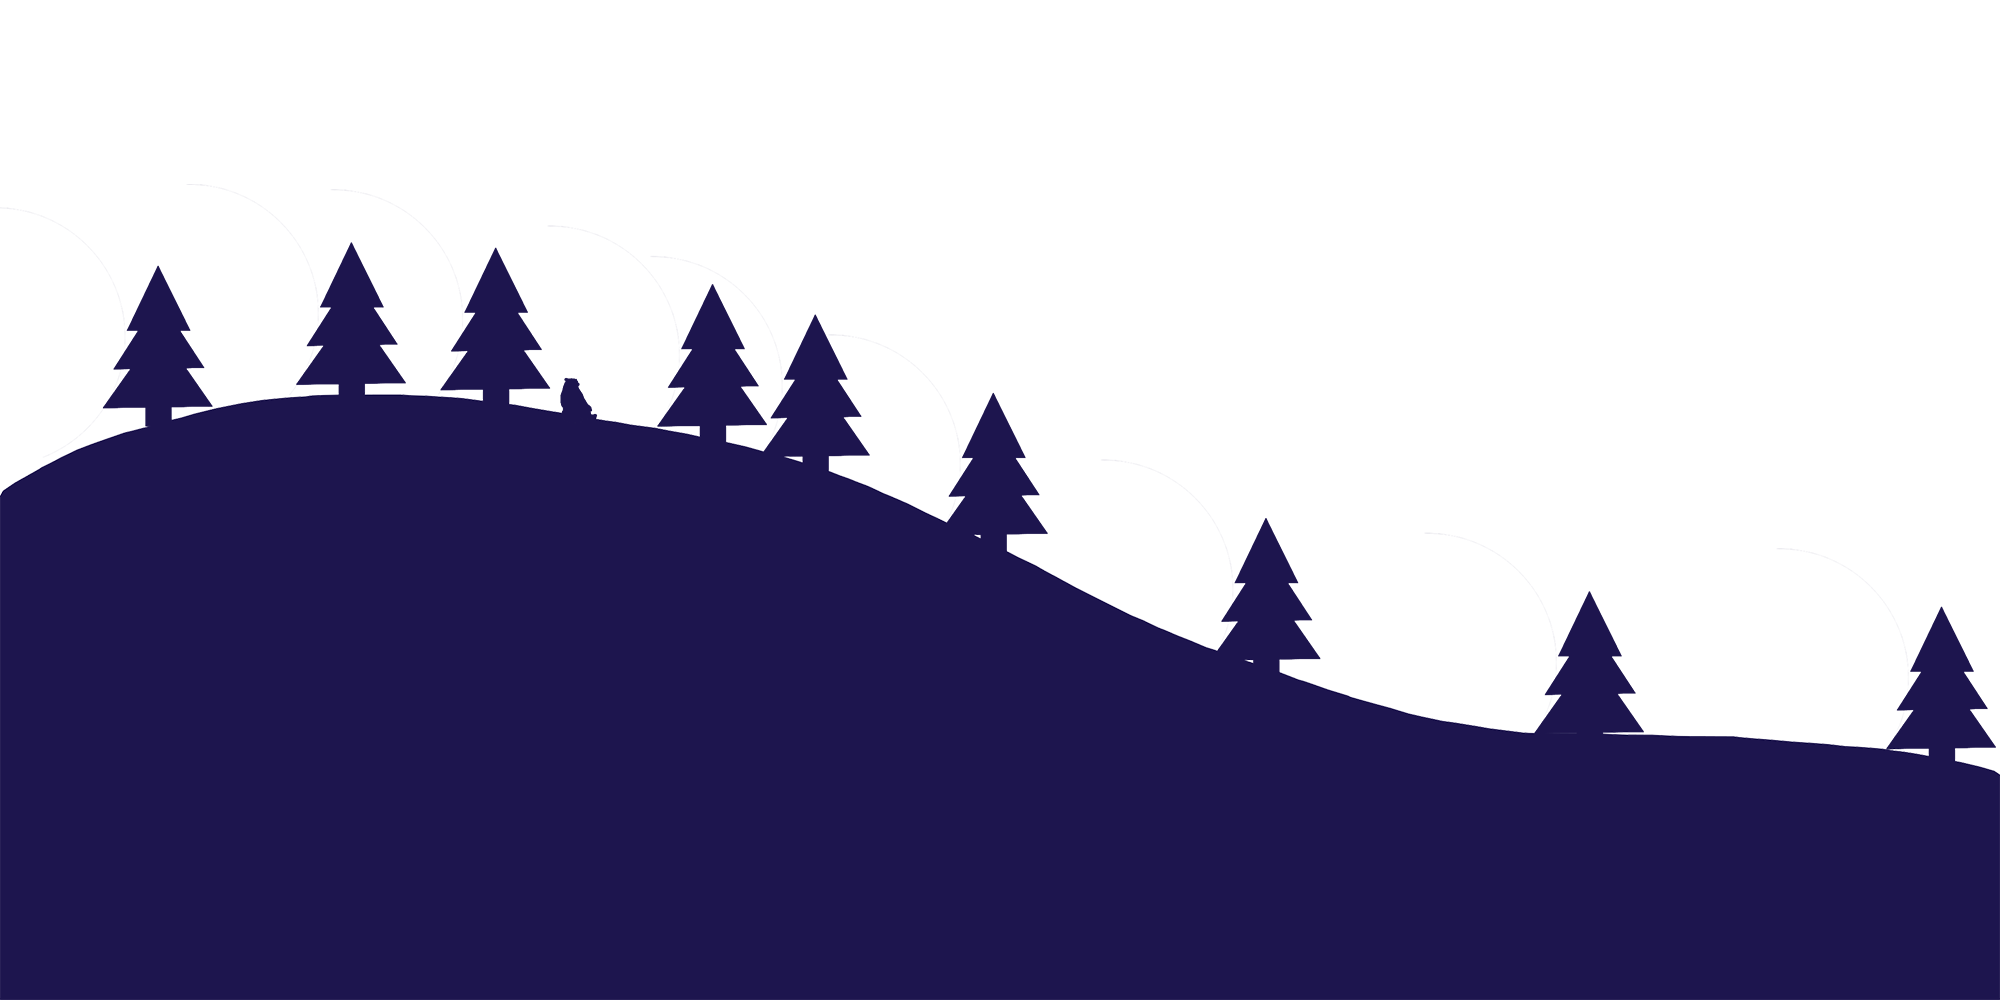
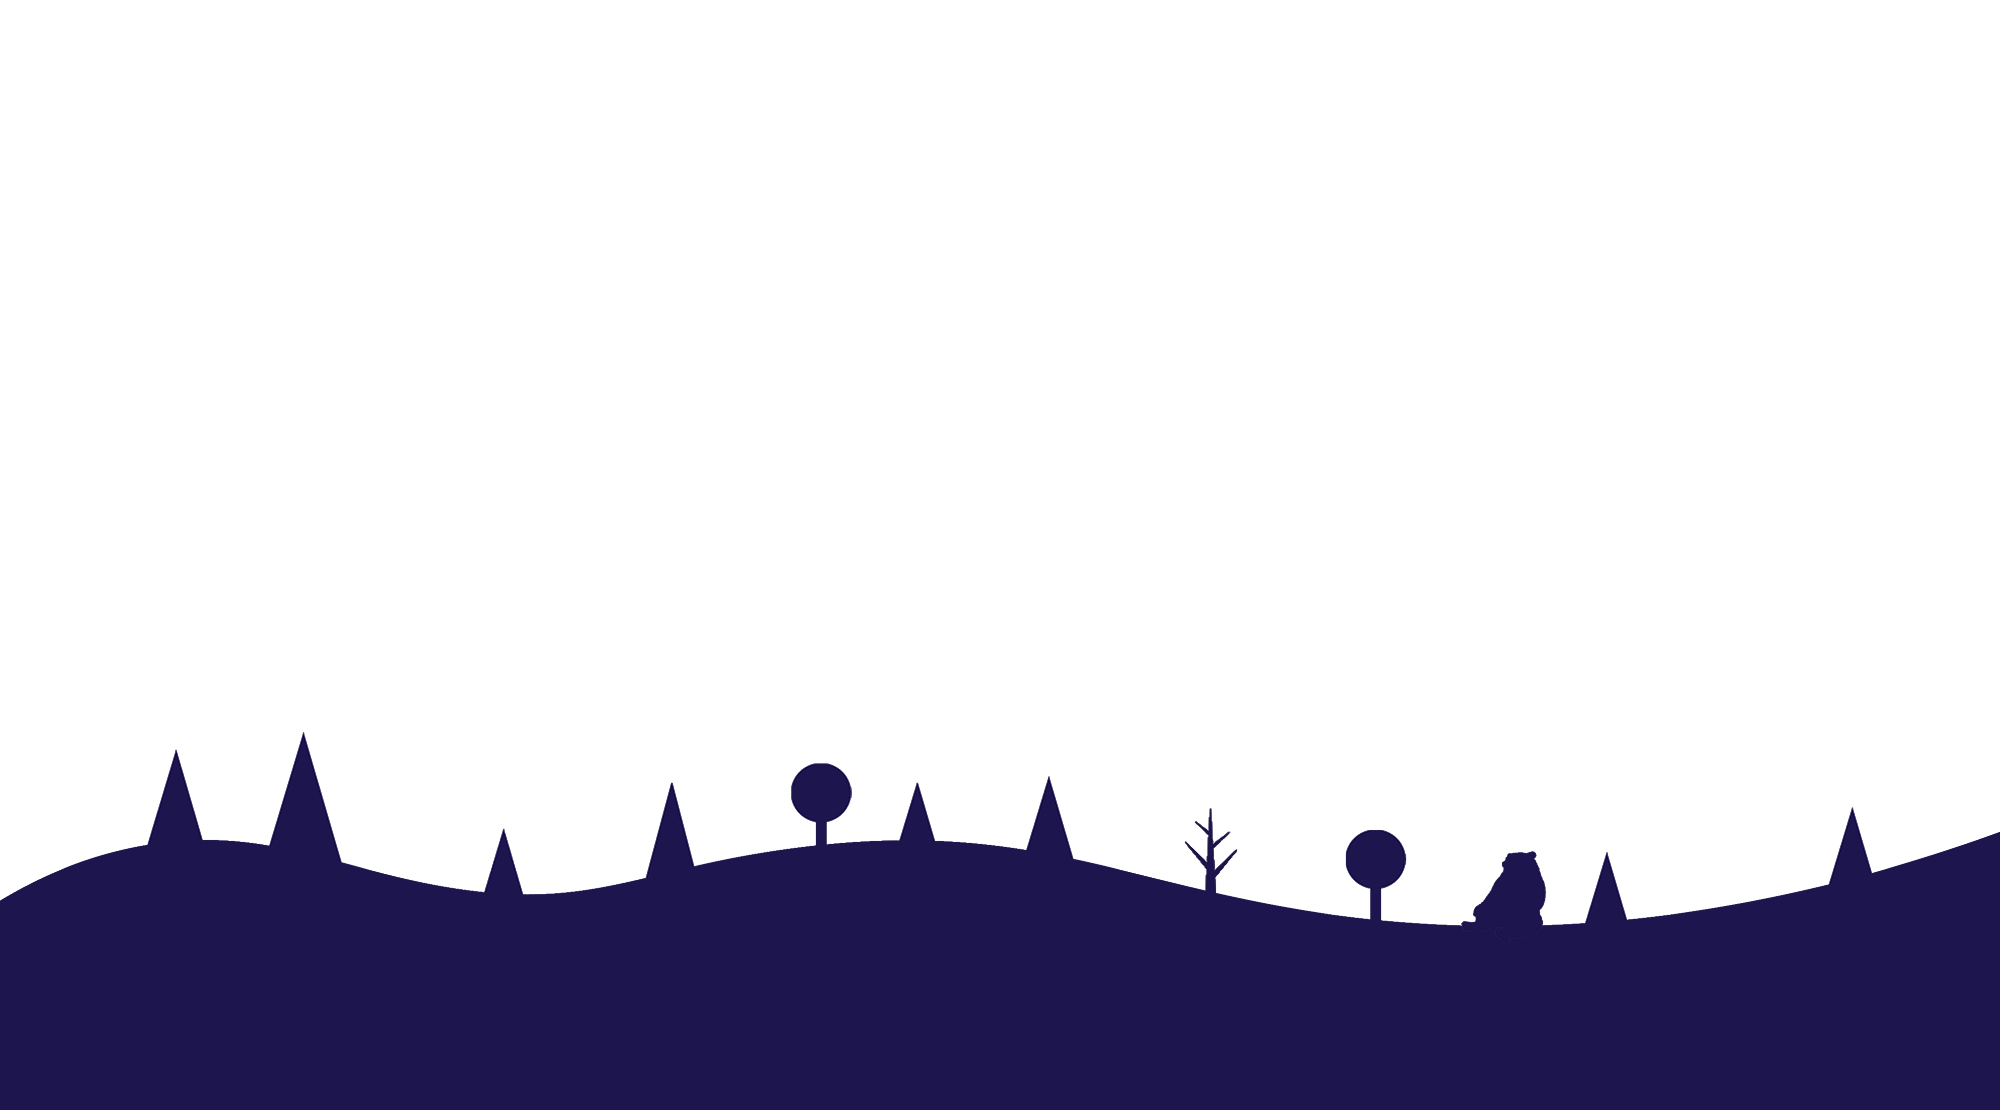
paralax done

Changed region(s): [[0.0, 0.248, 1.0, 0.837]]

diff --git a/src/components/Home/Paralax/styled.js b/src/components/Home/Paralax/styled.js
@@ -2,65 +2,108 @@ import styled from 'styled-components';
 
 import { assets, colors } from 'utils/styles';
 
+export const ParalaxRoot = styled.div`
+  position: relative;
+  top: 0;
+  height: 1000px;
+  width: 100%;
+  min-width: 720px;
+  background-position: 0 center;
+`;
+
 export const TitleContainer = styled.div`
   display: block;
-  position: absolute;
-  top: 75px;
+  position: relative;
+  top: 60px;
   width: 100%;
   min-width: 720px;
   height: 300px;
   text-align: center;
-  z-index: -50;
 `;
 
 export const Title = styled.h1`
-  position: relative;
-  font-weight: normal;
-  display: block;
-  overflow: hidden;
   margin: auto;
-  width: 591px;
-  height: 0;
-  padding-top: 150px;
+  display: block;
+  width: 655px;
+  height: 150px;
+  background-size: cover;
+  text-align: center;
+  position: relative;
+
   background-image: ${`url(${assets.titleImg})`};
 `;
 
 export const Info = styled.h2`
+  font-family: Comfortaa;
   width: 525px;
   margin: auto;
-  font-size: 23px;
+  font-size: 24px;
   color: #15231a;
   display: block;
   margin-top: 40px;
 `;
 
 export const Foreground = styled.div`
+  display: block;
+  height: 100%;
+  bottom: 160px;
+  width: 100%;
+  min-width: 720px;
   position: absolute;
+  background-position: center;
+  background-image: ${`url(${assets.foregroundImg})`};
+`;
+
+export const Layer1 = styled.div`
+  position: fixed;
+  display: block;
+  height: 1000px;
+  bottom: 100px;
+  width: 100%;
+  min-width: 720px;
+  background-position: center;
+  background-image: ${`url(${assets.layer1Img})`};
+`;
+
+export const Layer2 = styled.div`
+  position: fixed;
+  display: block;
+  height: 1100px;
+  bottom: 50px;
+  width: 100%;
+  min-width: 720px;
+  background-position: center;
+  background-image: ${`url(${assets.layer2Img})`};
+`;
+
+export const Layer3 = styled.div`
+  display: block;
+  position: fixed;
   width: 100%;
   min-width: 720px;
   pointer-events: none;
   overflow: hidden;
-  height: 100%;
-  background-image: ${`url(${assets.foregroundImg})`};
-  background-size: cover;
+  height: 800px;
+  background-position: center;
+  background-image: ${`url(${assets.layer3Img})`};
 `;
 
 export const Background = styled.div`
   background-image: ${`url(${assets.backgroundImg})`};
-  background-position: center 0;
+  display: block;
+  background-position: center;
   width: 100%;
   min-width: 720px;
-  height: 835px;
-  display: block;
-  position: absolute;
-  top: 0;
-  z-index: -100;
+  height: 1000px;
+  background-repeat: repeat-x;
+  bottom: 100px;
+  position: fixed;
 `;
 
 export const Content = styled.div`
   position: absolute;
   width: 100%;
-  top: 710px;
+  top: 800px;
   color: ${colors.textPrimary};
   background-color: ${colors.contentBackground};
 `;

diff --git a/src/components/Home/Paralax/index.jsx b/src/components/Home/Paralax/index.jsx
@@ -20,42 +20,34 @@ class Paralax extends React.Component {
   }
 
   moveParalax = () => {
-    const offset1 = this.scrollPosition * 0.7;
-    const offset2 = this.scrollPosition * 0.5;
-
-    const layer1 = document.getElementById('background');
-    const layer2 = document.getElementById('title');
-
-    layer1.style.webkitTransform = `translate3d(0, ${offset1}px, 0)`;
-    layer1.style.MozTransform = `translate3d(0, ${offset1}px, 0)`;
-    layer1.style.msTransform = `translateY(${offset1}px)`;
-    layer1.style.OTransform = `translate3d(0, ${offset1}px, 0)`;
-    layer1.style.transform = `translate3d(0, ${offset1}px, 0)`;
-
-    layer2.style.webkitTransform = `translate3d(0, ${offset2}px, 0)`;
-    layer2.style.MozTransform = `translate3d(0, ${offset2}px, 0)`;
-    layer2.style.msTransform = `translateY(${offset2}px)`;
-    layer2.style.OTransform = `translate3d(0, ${offset2}px, 0)`;
-    layer2.style.transform = `translate3d(0, ${offset2}px, 0)`;
+    const layers = document.getElementsByClassName('paralax');
+    for (let i = 0; i < layers.length; i += 1) {
+      const speed = layers[i].getAttribute('data-scale');
+      const yOffset = -(this.scrollPosition * speed) / 100;
+      layers[i].style.transform = `translate3d(0, ${yOffset}px, 0)`;
+    }
   };
 
   handleScroll = () => {
-    this.scrollPosition = Math.max(window.pageYOffset, 0);
+    this.scrollPosition = window.pageYOffset;
     this.moveParalax();
   };
 
   render() {
     const { children } = this.props;
     return (
-      <>
-        <S.Background id="background" />
-        <S.TitleContainer id="title">
+      <S.ParalaxRoot>
+        <S.Background id="background" className="paralax" data-scale="4" />
+        <S.Layer1 id="layer1" className="paralax" data-scale="10" />
+        <S.Layer2 id="layer2" className="paralax" data-scale="15" />
+        <S.Layer3 id="layer3" className="paralax" data-scale="20" />
+        <S.TitleContainer id="title" className="paralax" data-scale="-60">
           <S.Title />
           <S.Info>{strings.title.heading2}</S.Info>
         </S.TitleContainer>
-        <S.Foreground />
+        <S.Foreground id="foreground" className="paralax" data-scale="0" />
         <S.Content>{children}</S.Content>
-      </>
+      </S.ParalaxRoot>
     );
   }
 }

diff --git a/src/utils/styles.js b/src/utils/styles.js
@@ -1,5 +1,8 @@
-import backgroundImg from 'images/background.jpg';
+import backgroundImg from 'images/background.png';
 import foregroundImg from 'images/foreground.png';
+import layer1Img from 'images/layer1.png';
+import layer2Img from 'images/layer2.png';
+import layer3Img from 'images/layer3.png';
 import sellbroIconImg from 'images/sellbro-icon.png';
 import titleImg from 'images/title.png';
 import userImg from 'images/user.png';
@@ -20,6 +23,9 @@ export const colors = {
 export const assets = {
   backgroundImg,
   foregroundImg,
+  layer1Img,
+  layer2Img,
+  layer3Img,
   githubImg,
   sellbroIconImg,
   titleImg,
